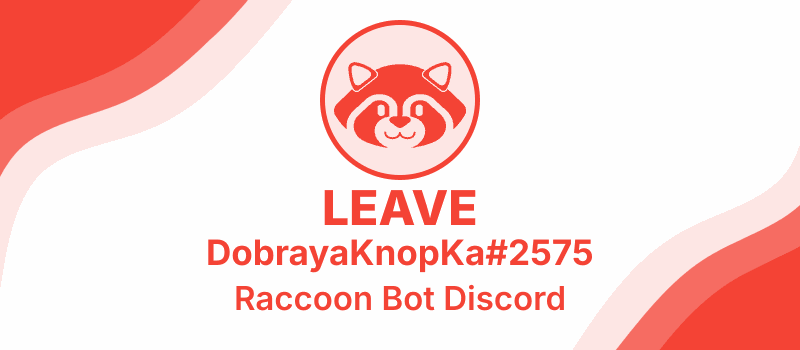
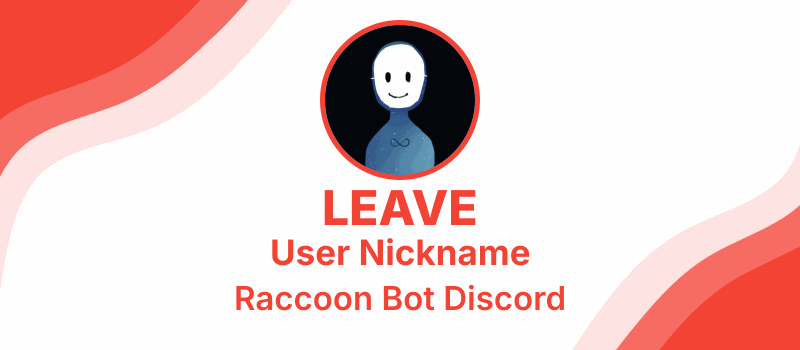
docs: link the playground and rename the welcome example user

Changed region(s): [[0.4062, 0.0571, 0.5938, 0.5143], [0.25, 0.6857, 0.75, 0.7714]]

diff --git a/readme.md b/readme.md
@@ -2,6 +2,8 @@
 
 <p align="center">Welcome, leave, rank, level-up and info card images for Discord bots, built on node-canvas.</p>
 
+<p align="center"><a href="https://gusarovv.github.io/discord-card-canvas/"><b>Live demo</b></a>: edit any card in your browser and copy the code</p>
+
 <p align="center"><img src="https://raw.githubusercontent.com/Gusarovv/discord-card-canvas/main/.github/assets/rank-blue.png" alt="Rank card made with discord-card-canvas" /></p>
 
 <p align="center">
@@ -184,7 +186,7 @@ fs.writeFileSync('level-up-orange.png', canvasLevelUp.toBuffer());
 const cv = new WelcomeBuilder({
   // backgroundImgURL: 'https://example.com/background.png',
   fontDefault: 'Inter',
-  nicknameText: { color: '#0CA7FF', content: 'DobrayaKnopKa#2575' },
+  nicknameText: { color: '#0CA7FF', content: 'User Nickname' },
   secondText: { color: '#0CA7FF', content: 'Raccoon Bot Discord' },
   avatarImgURL: 'https://cdn.discordapp.com/embed/avatars/0.png',
 });
@@ -198,7 +200,7 @@ fs.writeFileSync('welcome-1.png', (await cv.build()).toBuffer());
 
 ```ts
 const cv = new LeaveBuilder({
-  nicknameText: { content: 'DobrayaKnopKa#2575' },
+  nicknameText: { content: 'User Nickname' },
   avatarImgURL: 'https://cdn.discordapp.com/embed/avatars/0.png',
 });
 cv.setFontDefault('Inter');
@@ -600,6 +602,8 @@ npm run typecheck    # type-check the tests
 ```
 
 Visual tests run only on Linux x64, where the baselines are rendered, and are skipped on other platforms. After every run `test/.gallery/index.html` shows all baselines, with the diffs of failed comparisons on top.
+
+The playground in `playground/` is a Vite app that imports the builders from `src`: `npm run playground` serves it at http://localhost:5173/discord-card-canvas/, and `npm run playground:build` builds it into `playground/dist`.
 
 # 📄 Credits
 
